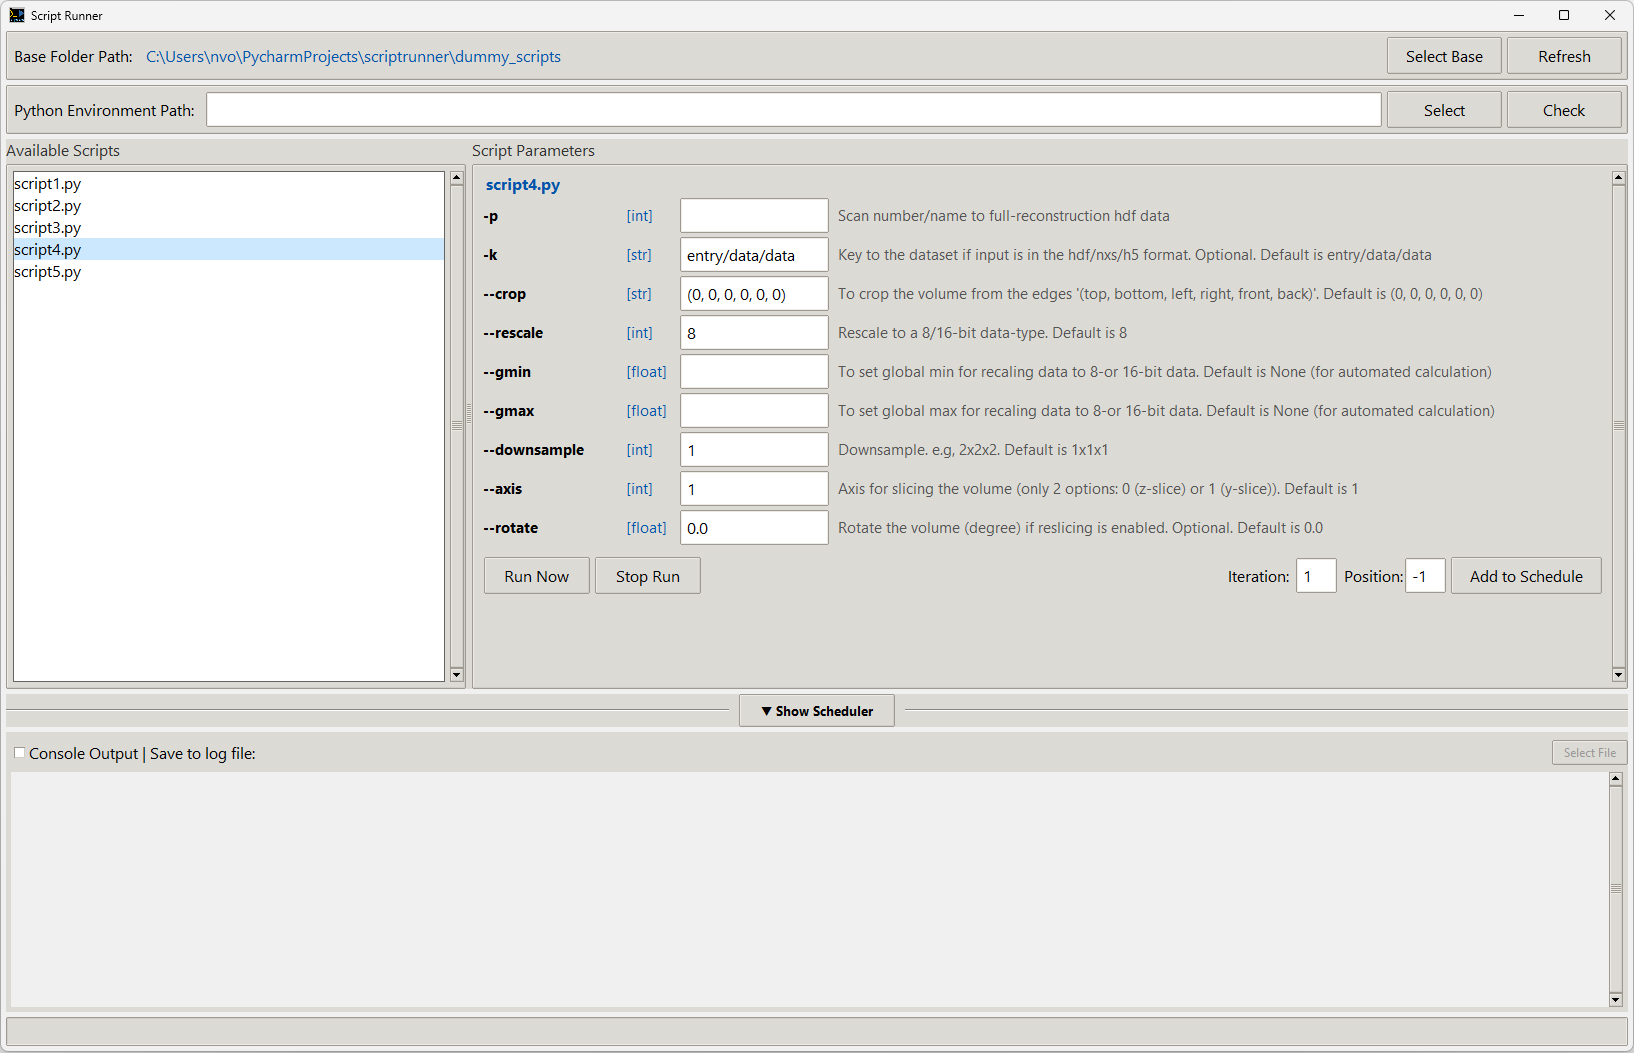
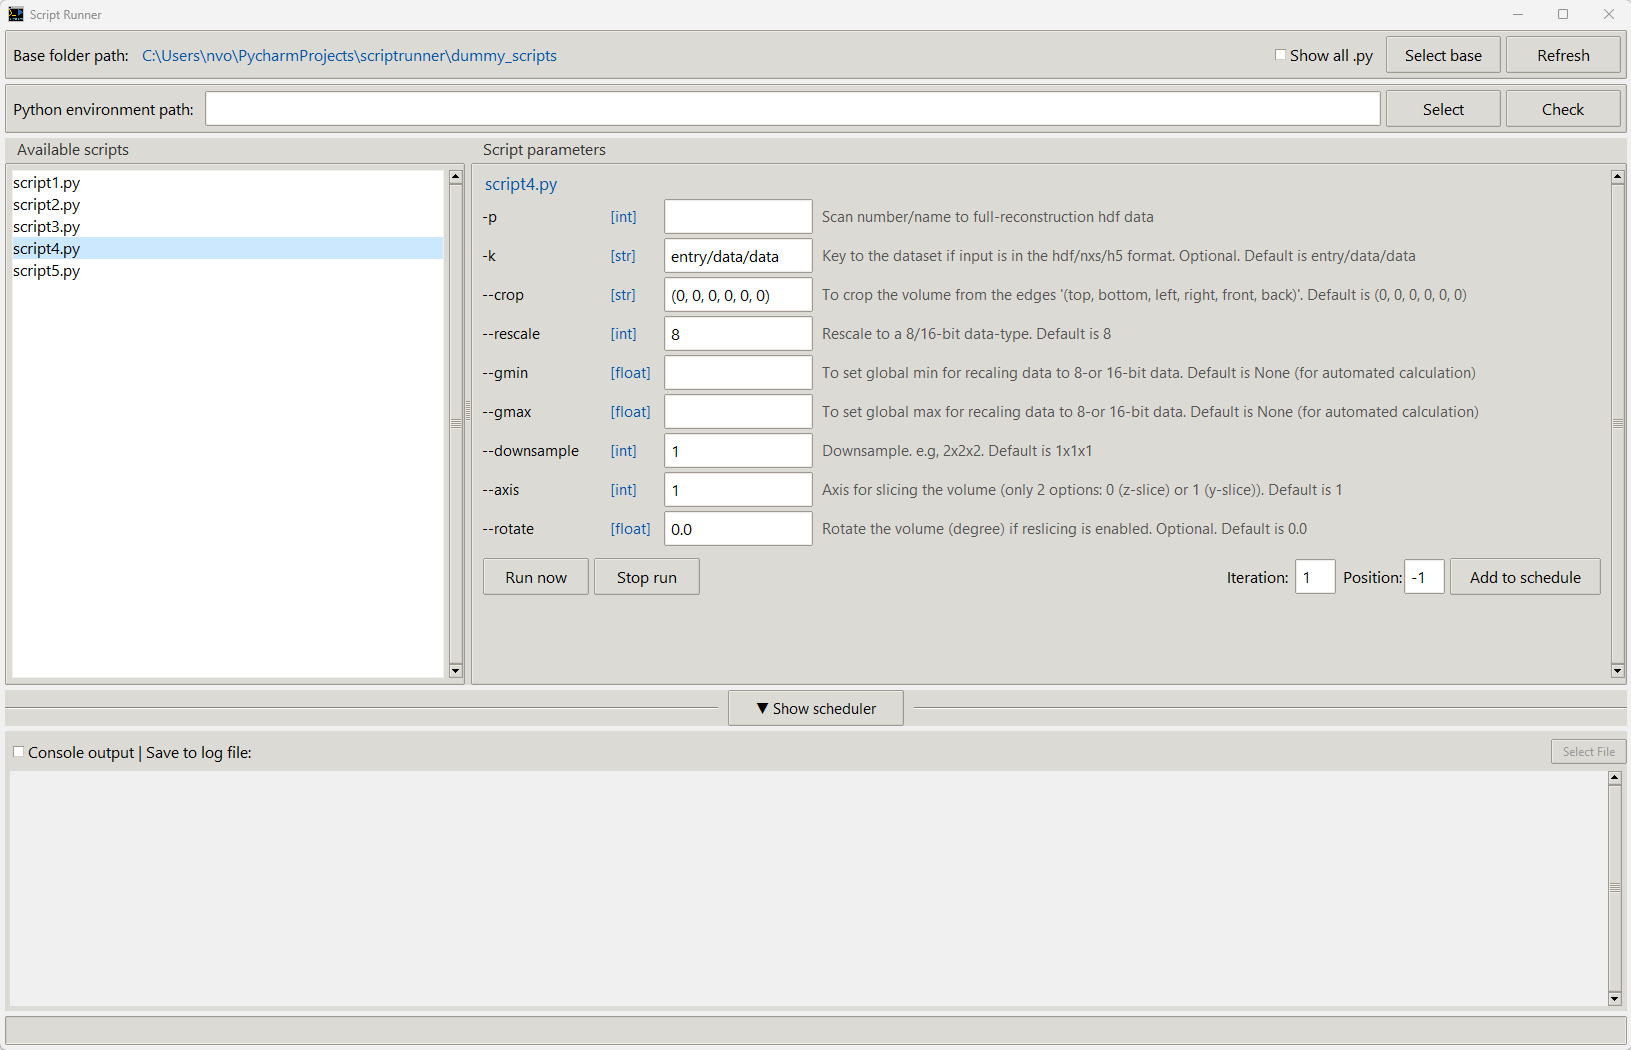
Update Readme

Changed region(s): [[0.0, 0.0, 1.0, 1.0], [0.0, 0.701, 0.1533, 0.7314]]

diff --git a/README.md b/README.md
@@ -112,7 +112,8 @@ Usage
 
 - Enable/disable saving console output to a file using the checkbox.
 
-- By default, ScriptRunner only picks and displays ArgParse-based scripts. However, users can choose to display all Python scripts by running:
+- By default, ScriptRunner picks and displays ArgParse-based scripts. However, users can choose to display all Python scripts by running:
   ```commandline
   scriptrunner -t "all"
   ```
+  or tick the box "Show all .py"
